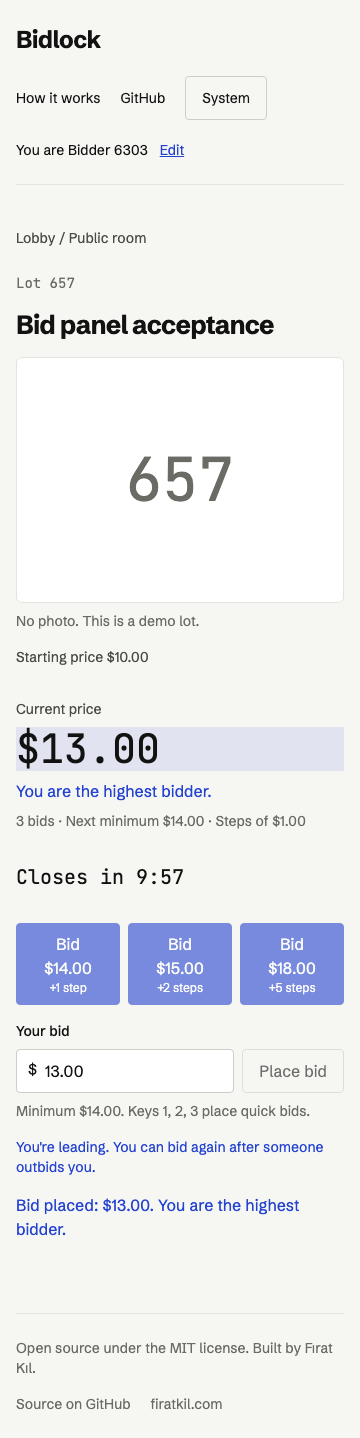
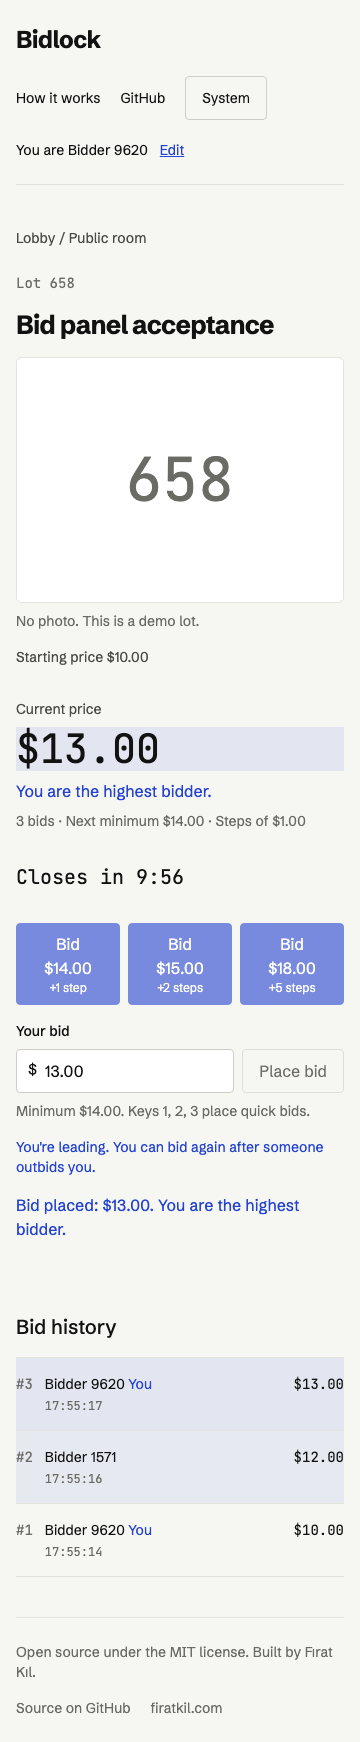
feat: add capped bid history pagination (T-30)

diff --git a/src/components/room/BidHistory.tsx b/src/components/room/BidHistory.tsx
@@ -1,0 +1,114 @@
+"use client";
+import { useState } from "react";
+import { fetchOlderBids } from "@/client/api";
+import { formatCountdown } from "@/domain/clock";
+import { fillCopy, roomCopy as copy } from "@/domain/copy";
+import { formatCents } from "@/domain/money";
+import type { BidItem } from "@/domain/schemas";
+export function BidHistory({
+  auctionId,
+  bids,
+  viewerId,
+  extendBySeconds,
+  onBids,
+}: {
+  auctionId: string;
+  bids: BidItem[];
+  viewerId: string | null;
+  extendBySeconds: number;
+  onBids: (bids: BidItem[]) => void;
+}) {
+  const [visible, setVisible] = useState(20);
+  const [loading, setLoading] = useState(false);
+  const [exhausted, setExhausted] = useState(false);
+  const rows = bids.slice(0, visible);
+  const oldest = rows.at(-1)?.bid_no ?? 1;
+  const earlier = async () => {
+    if (loading) return;
+    if (bids.length > visible) {
+      setVisible(Math.min(100, visible + 20));
+      return;
+    }
+    setLoading(true);
+    try {
+      const page = await fetchOlderBids(auctionId, oldest);
+      onBids(page.bids);
+      setVisible(Math.min(100, visible + 20));
+      setExhausted(page.next_cursor === null);
+    } finally {
+      setLoading(false);
+    }
+  };
+  return (
+    <section className="min-w-0 space-y-4" aria-labelledby="history-heading">
+      <h2 id="history-heading" className="text-xl font-medium">
+        {copy.history}
+      </h2>
+      {rows.length === 0 ? (
+        <p className="text-ink-3">{copy.noBids}</p>
+      ) : (
+        <ol className="divide-y divide-rule border-y border-rule">
+          {rows.map((bid) => (
+            <li
+              key={bid.bid_no}
+              className="price-flash grid grid-cols-[auto_1fr_auto] gap-x-3 gap-y-1 py-4 text-sm"
+            >
+              <span className="font-mono text-ink-3">
+                {fillCopy(copy.bidNumber, { n: bid.bid_no })}
+              </span>
+              <span className="min-w-0 break-words">
+                {bid.display_name}{" "}
+                {bid.bidder_id === viewerId && (
+                  <span className="text-accent">{copy.you}</span>
+                )}{" "}
+                {bid.is_bot && (
+                  <span className="rounded border border-rule px-1 font-mono text-xs">
+                    {copy.bot}
+                  </span>
+                )}
+              </span>
+              <span className="font-mono tabular-nums">
+                {formatCents(bid.amount)}
+              </span>
+              <time
+                dateTime={bid.placed_at}
+                className="col-start-2 font-mono text-xs text-ink-3"
+                suppressHydrationWarning
+              >
+                {new Date(bid.placed_at).toLocaleTimeString(undefined, {
+                  hour12: false,
+                  hour: "2-digit",
+                  minute: "2-digit",
+                  second: "2-digit",
+                })}
+              </time>
+              {bid.extended && (
+                <span
+                  className="text-right font-mono text-xs text-ink-3"
+                  title={copy.extendedTitle}
+                >
+                  {fillCopy(copy.extensionTag, {
+                    time: formatCountdown(extendBySeconds * 1000),
+                  })}
+                </span>
+              )}
+            </li>
+          ))}
+        </ol>
+      )}
+      {oldest > 1 &&
+        rows.length < 100 &&
+        (!exhausted || bids.length > visible) && (
+          <button
+            className="button"
+            disabled={loading}
+            onClick={() => {
+              void earlier().catch(() => {});
+            }}
+          >
+            {loading ? copy.loading : copy.earlier}
+          </button>
+        )}
+    </section>
+  );
+}

diff --git a/tests/unit/bidHistory.dom.test.tsx b/tests/unit/bidHistory.dom.test.tsx
@@ -1,0 +1,82 @@
+import { afterEach, expect, test, vi } from "vitest";
+import {
+  act,
+  cleanup,
+  fireEvent,
+  render,
+  screen,
+} from "@testing-library/react";
+import { useState } from "react";
+import { BidHistory } from "@/components/room/BidHistory";
+import { fetchOlderBids } from "@/client/api";
+import { roomCopy as copy } from "@/domain/copy";
+import { auction, bid } from "../fixtures/auction";
+import type { BidItem } from "@/domain/schemas";
+vi.mock("@/client/api", () => ({ fetchOlderBids: vi.fn() }));
+afterEach(() => {
+  cleanup();
+  vi.clearAllMocks();
+});
+function History({ initial }: { initial: BidItem[] }) {
+  const [bids, setBids] = useState(initial);
+  return (
+    <BidHistory
+      auctionId={auction.id}
+      bids={bids}
+      viewerId={auction.id}
+      extendBySeconds={30}
+      onBids={(older) => {
+        setBids([...bids, ...older].slice(0, 100));
+      }}
+    />
+  );
+}
+test("TC-193: empty history, exact row labels, badges, local time and extension tooltip", () => {
+  const view = render(<History initial={[]} />);
+  expect(screen.getByRole("heading").textContent).toBe(copy.history);
+  expect(screen.getByText(copy.noBids)).toBeTruthy();
+  view.unmount();
+  const row = { ...bid(1), extended: true, is_bot: true };
+  render(<History initial={[row]} />);
+  expect(screen.getByText("#1")).toBeTruthy();
+  expect(screen.getByText(copy.you)).toBeTruthy();
+  expect(screen.getByText(copy.bot)).toBeTruthy();
+  expect(screen.getByText("$10.00")).toBeTruthy();
+  expect(screen.getByTitle(copy.extendedTitle).textContent).toBe("+0:30");
+  expect(document.querySelector("time")?.textContent).toBe(
+    new Date(row.placed_at).toLocaleTimeString(undefined, {
+      hour12: false,
+      hour: "2-digit",
+      minute: "2-digit",
+      second: "2-digit",
+    }),
+  );
+  expect(screen.queryByRole("button")).toBeNull();
+});
+test("TC-193: loads twenty older rows and removes pagination at exhaustion", async () => {
+  const initial = Array.from({ length: 20 }, (_, i) => bid(40 - i));
+  vi.mocked(fetchOlderBids).mockResolvedValue({
+    bids: Array.from({ length: 20 }, (_, i) => bid(20 - i)),
+    next_cursor: null,
+  });
+  render(<History initial={initial} />);
+  await act(async () => {
+    fireEvent.click(screen.getByRole("button", { name: copy.earlier }));
+    await Promise.resolve();
+  });
+  expect(fetchOlderBids).toHaveBeenCalledWith(auction.id, 21);
+  expect(screen.getAllByRole("listitem")).toHaveLength(40);
+  expect(screen.queryByRole("button")).toBeNull();
+});
+test("TC-193: approved D-55 reveals cached pages up to newest 100, then removes button", () => {
+  render(
+    <History initial={Array.from({ length: 100 }, (_, i) => bid(150 - i))} />,
+  );
+  for (let count = 20; count < 100; count += 20) {
+    expect(screen.getAllByRole("listitem")).toHaveLength(count);
+    fireEvent.click(screen.getByRole("button", { name: copy.earlier }));
+  }
+  expect(screen.getAllByRole("listitem")).toHaveLength(100);
+  expect(screen.queryByRole("button")).toBeNull();
+  expect(fetchOlderBids).not.toHaveBeenCalled();
+});

diff --git a/src/components/room/AuctionRoom.tsx b/src/components/room/AuctionRoom.tsx
@@ -5,6 +5,7 @@ import { useLiveAnnouncer } from "@/client/hooks/useLiveAnnouncer";
 import type { placeBid } from "@/client/api";
 import { formatCents } from "@/domain/money";
 import { fillCopy } from "@/domain/copy";
+import { BidHistory } from "./BidHistory";
 import { BidPanel } from "./BidPanel";
 import { useAuctionRoom } from "@/client/hooks/useAuctionRoom";
 import { roomCopy as copy } from "@/domain/copy";
@@ -103,6 +104,15 @@ export function AuctionRoom({
             max={auction.max_extensions}
           />
         </div>
+        <BidHistory
+          auctionId={auction.id}
+          bids={room.bids}
+          viewerId={room.me?.id ?? null}
+          extendBySeconds={auction.extend_by_s}
+          onBids={(bids) => {
+            room.apply({ kind: "bids", bids });
+          }}
+        />
       </div>
     </main>
   );

diff --git a/docs/PRD.md b/docs/PRD.md
@@ -521,7 +521,7 @@ Bid history (right column, heading "Bid history"):
 |---|---|
 | Row | "#{bid_no}" (mono), "{name}" with badges "You" / "BOT", "{amount}" (mono, right aligned), "{HH:mm:ss}"; rows that extended the close carry tag "+0:30" with `title` "This bid extended the close" |
 | Empty | "No bids yet." |
-| Pagination | Button "Show earlier bids" (loads 20 older rows); when exhausted the button is removed |
+| Pagination | Button "Show earlier bids" (loads 20 older rows); when exhausted or the newest 100 rows are shown the button is removed (D-55) |
 | Loading older | "Loading…" |
 | New rows | Prepended at the top, max 100 rows kept in memory; new row background fades from accent-tint to none in 600 ms (disabled under reduced motion) |
 
@@ -682,3 +682,5 @@ Decisions from the brief are fixed. Decisions marked "made in docs" were made wh
 | D-53 | Add `POST /api/client-errors` accepting only a generated UUID, with the existing Origin/body/demo-mode guards; log the occurrence without browser message, stack, cookie or personal data. Error pages show the existing logged-ID sentence only after confirmation. | owner approved 2026-10-21 | T-26 error copy needs a truthful server-log reference for browser-only rendering failures. |
 
 | D-54 | Define shared feed event types in `src/domain/feed.ts` during T-27; change events carry `receivedAt`, and T-28 re-exports these types from the feed interface. Runtime feeds remain T-28. | owner approved 2026-10-21 | Resolves task ordering and keeps extension receipt timing pure. |
+
+| D-55 | Cap history pagination at the newest 100 rows; remove Show earlier bids at that cap or when history is exhausted. | owner approved 2026-10-21 | Keeps visible pagination consistent with the reconciler retention limit. |

diff --git a/docs/TRD.md b/docs/TRD.md
@@ -2363,7 +2363,7 @@ Rules:
 2. `change` with `version <= auction.version`: ignore.
 3. `change` with `version === auction.version + 1`: merge the change fields into `auction`, increment version. If `change.bid` and `change.bid.bid_no === lastBidNo + 1`: prepend it. If `change.bid` with a larger gap: `pendingBidsAfter = lastBidNo`. If `status` or `payment_state` differs from the held value: `pendingRefetch = true` (offers are not in the payload).
 4. `change` with `version > auction.version + 1`: merge the fields (they are the newest) and set `pendingRefetch = true` and `pendingBidsAfter = lastBidNo`.
-5. `bids`: insert each bid not already present by `bid_no`; sort newest first; trim to 100; update `lastBidNo`.
+5. `bids`: insert each bid not already present by `bid_no`; sort newest first; trim to 100; update `lastBidNo`. History pagination stops at the newest 100 visible rows (D-55).
 6. Extension detection: when `extension_count` increases, set `lastExtension = { n, durationMs: new ends_at − bid.placed_at (or last_extension.at), at: event.receivedAt }`. Receipt time is supplied by the feed boundary (D-54), never read by the reducer.
 7. Derived values (`min_next_bid`, `max_bid`, `increment`) are recomputed with `src/domain/increments.ts` after a `change` and replaced by the server's values at the next snapshot.
 

diff --git a/docs/PROGRESS.md b/docs/PROGRESS.md
@@ -69,7 +69,7 @@ A finishing commit is recorded only when acceptance checks, including required C
 
 ## Open questions for the owner
 
-Pending: approve capping history pagination at the newest 100 rows, matching the reducer retention limit; bid-panel work continues independently. D-54 is approved.
+None. D-55 approves the newest-100 history pagination cap.
 
 - Constraint correction (D-47) and single-invocation SQL calls (D-48) approved.
 
@@ -186,3 +186,5 @@ Owner approved continuing after M2. TC-170–TC-208 designed before implementati
 - T-29 complete: [PR #29](https://github.com/firatkill/bidlock/pull/29), [passing CI](https://github.com/firatkill/bidlock/actions/runs/39607568756), task commit `0a7de99`.
 
 - T-30 independent bid-panel work passes lint/typecheck/build, 129 unit tests, 363 pgTAP assertions and 44 integration tests (9.21 s). Local production two-browser flow verifies quick/keyboard/custom bids, accepted/outbid notices and validation; mobile prefix spacing fixed. History pagination TC-193 remains pending owner approval of the newest-100 cap; T-30 is not complete.
+
+- T-30 D-55 implemented: history paging stops at the newest 100 rows or exhaustion. Final checks: 132 unit tests, lint/typecheck/build and local production two-bidder/history acceptance pass. Final PR CI pending.

diff --git a/qa/test-cases.md b/qa/test-cases.md
@@ -2288,7 +2288,7 @@ Cases designed from PRD §9, TRD §11/§15 and T-26–T-33 before implementation
 - Automatable: yes
 - Preconditions: Local test environment; own unique auction/bidder data; deterministic fixtures or mocked timers where specified. Restore clock and environment after use.
 - Steps: Render empty and bid rows with You/BOT/extension; load earlier page to exhaustion.
-- Expected result: Exact row labels, local time, extension tooltip, 20-row page request, button removed when exhausted, max100 rows.
+- Expected result: Exact row labels, local time, extension tooltip, 20-row page request, button removed when exhausted or 100 rows are visible (approved D-55), max100 rows.
 
 ## TC-194: Broadcast subscription and validation
 
